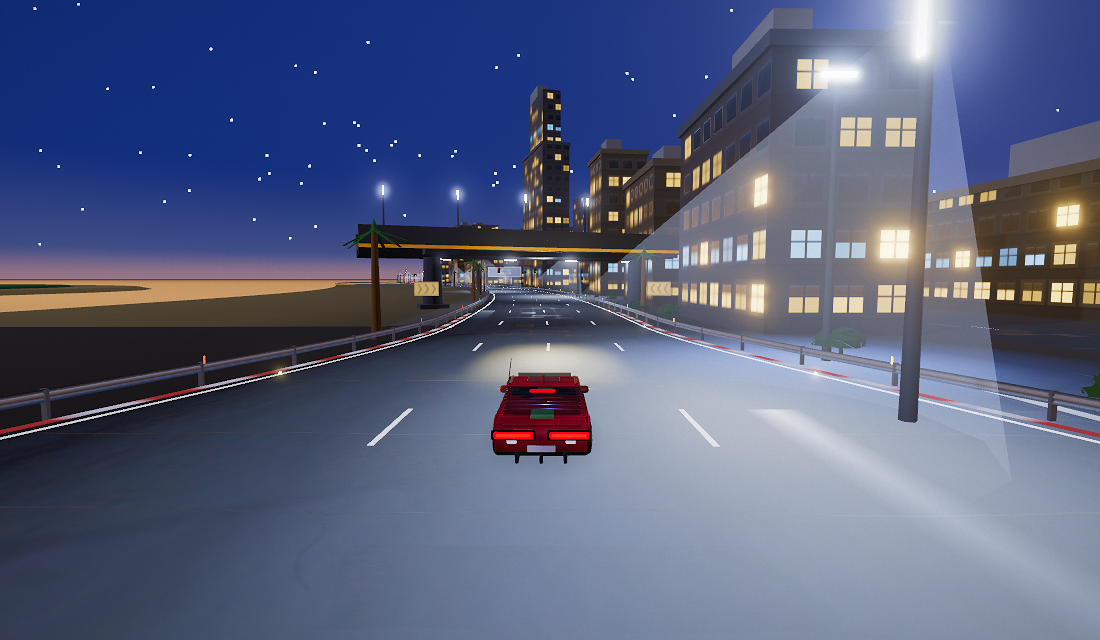
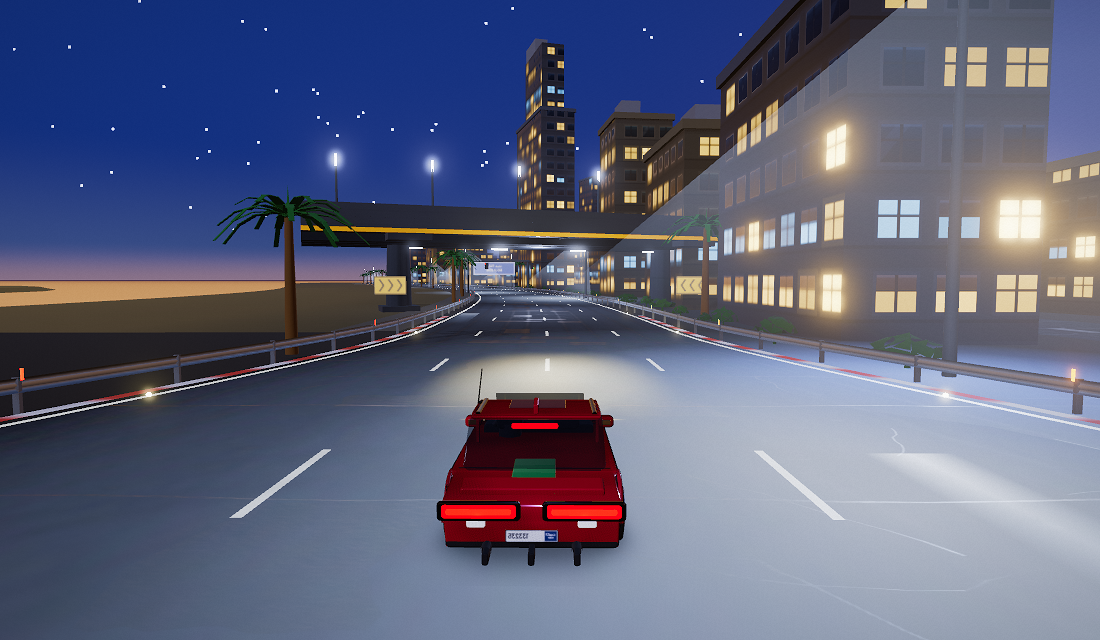
Reflections: put the skyline where a skyline is
I put a city into the reflection last turn and it made the paint duller.
Measured on check:paint, against the same env with the city taken back
out:

                      lamps                        dark
    no city      spec 72.8  ratio 3.5  hl 4.7%   spec 72.5  hl 5.7%
    city at 46   spec 69.2  ratio 3.5  hl 2.3%   spec 76.0  hl 3.6%

Half the highlight on the bodywork and three times the dead fraction.
The reason is arithmetic I should have done before shipping it: twenty
towers on a 46 m ring subtend about eighteen degrees each, and twenty
times eighteen is three hundred and sixty. They enclosed the horizon
completely and ate the band the gradient dome exists to provide — "the
money stripe", as the comment above it says. A reflection of a city with
no sky left in it is duller than no city at all.

Fourteen towers at 95 to 121 m subtend about seven degrees each: a
quarter of the ring is tower and three quarters is still sky, which is
what a skyline looks like from a road and what leaves the band somewhere
to sweep. The windows come up off near-black too — a tower that is only
a hole in the sky subtracts from a reflection instead of adding a
pattern to it — and the bake's far plane goes to 320 so the ring
survives it.

    city at 95   spec 74.5  ratio 3.5  hl 4.6%   spec 138.2  ratio 5.5

The lamps scene is back where it was and a little past it. The dark
scene is where the gain is: the highlight nearly doubles and the
[…]

diff --git a/src/game/env.ts b/src/game/env.ts
@@ -73,10 +73,24 @@ export function nightEnvironment(renderer: THREE.WebGLRenderer): THREE.Texture {
   // produce it at any resolution or any envMapIntensity.
   //
   // Cheap, because this is baked once into a cubemap and never drawn:
-  // twenty boxes of unlit window texture on a ring outside the lamps.
-  // They are DARKER than the sky behind them, which is the point — a
-  // reflection is a pattern, not a brightness, and the pattern here is
-  // black tower against sodium haze.
+  // boxes of window texture on a ring well outside the lamps. They are
+  // DARKER than the sky behind them, which is the point — a reflection
+  // is a pattern, not a brightness, and the pattern here is black tower
+  // against sodium haze.
+  //
+  // HOW FAR OUT is the whole of it, and the first version got it wrong.
+  // Twenty towers on a 46 m ring subtend about eighteen degrees each,
+  // and twenty times eighteen is three hundred and sixty: they enclosed
+  // the horizon completely and ate the band the dome exists to provide.
+  // Measured on check:paint, that halved the highlight on the bodywork —
+  // 4.7% of the panel down to 2.3% under the lamps, 5.7% to 3.6% in the
+  // dark — and tripled the dead fraction. A reflection of a city with no
+  // sky in it is duller than no city at all.
+  //
+  // At 95 m and beyond, fourteen of them subtend about seven degrees
+  // each: a quarter of the ring is tower and three quarters is still
+  // sky, which is what a skyline looks like from a road and what leaves
+  // the band somewhere to sweep.
   const winC = document.createElement("canvas");
   winC.width = 32;
   winC.height = 64;
@@ -90,21 +104,24 @@ export function nightEnvironment(renderer: THREE.WebGLRenderer): THREE.Texture {
     for (let cIdx = 0; cIdx < 6; cIdx++) {
       const lit = ((r * 7 + cIdx * 13) % 11) < 4;
       if (!lit) continue;
-      // Two window colours: warm interior and cool screen glow.
-      wc.fillStyle = (r + cIdx) % 3 === 0 ? "#443a26" : "#2a3140";
+      // Two window colours: warm interior and cool screen glow. Lifted
+      // from the first version's near-black, because a tower that is
+      // only a hole in the sky subtracts from the reflection instead of
+      // adding a pattern to it.
+      wc.fillStyle = (r + cIdx) % 3 === 0 ? "#6b5a34" : "#3d4759";
       wc.fillRect(3 + cIdx * 5, 2 + r * 4, 3, 2);
     }
   }
   const winTex = new THREE.CanvasTexture(winC);
   winTex.colorSpace = THREE.SRGBColorSpace;
   const winMat = new THREE.MeshBasicMaterial({ map: winTex });
-  for (let i = 0; i < 20; i++) {
-    const a = (i / 20) * Math.PI * 2 + 0.16;
+  for (let i = 0; i < 14; i++) {
+    const a = (i / 14) * Math.PI * 2 + 0.16;
     // Heights from one repeating pattern rather than a random draw, for
     // the same reason the windows are: one city.
     const h = 26 + ((i * 37) % 5) * 11;
     const w = 9 + ((i * 17) % 4) * 3;
-    const r = 46 + ((i * 23) % 3) * 6;
+    const r = 95 + ((i * 23) % 3) * 13;
     const block = new THREE.Mesh(new THREE.BoxGeometry(w, h, w), winMat);
     block.position.set(Math.cos(a) * r, h / 2 - 2, Math.sin(a) * r);
     block.rotation.y = a;
@@ -113,9 +130,9 @@ export function nightEnvironment(renderer: THREE.WebGLRenderer): THREE.Texture {
 
   const pmrem = new THREE.PMREMGenerator(renderer);
   pmrem.compileEquirectangularShader();
-  // far: the dome is at 60 and the towers reach past it on the diagonal,
-  // so the default 100 is not enough to keep them in the bake.
-  const tex = pmrem.fromScene(env, 0.02, 0.1, 200).texture;
+  // far: the dome is at 60 and the towers stand at 95 to 121, so the
+  // default 100 would clip most of the skyline out of the bake.
+  const tex = pmrem.fromScene(env, 0.02, 0.1, 320).texture;
   pmrem.dispose();
   domeTex.dispose();
   return tex;
